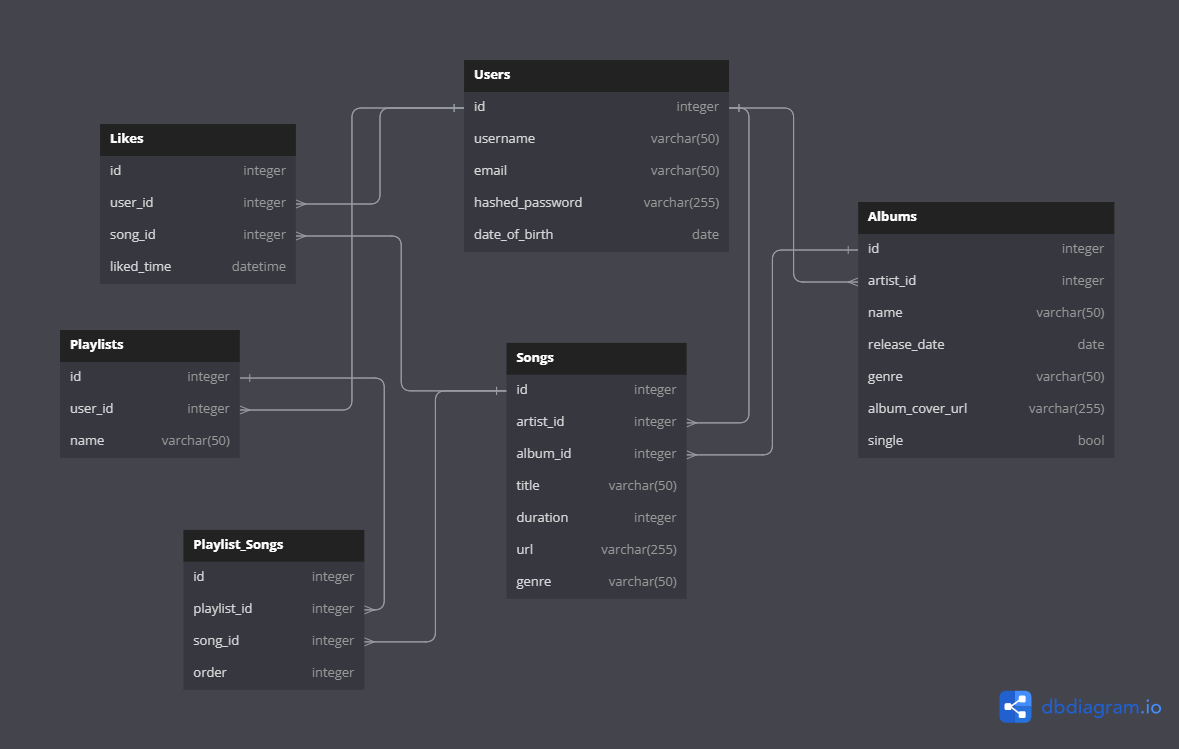
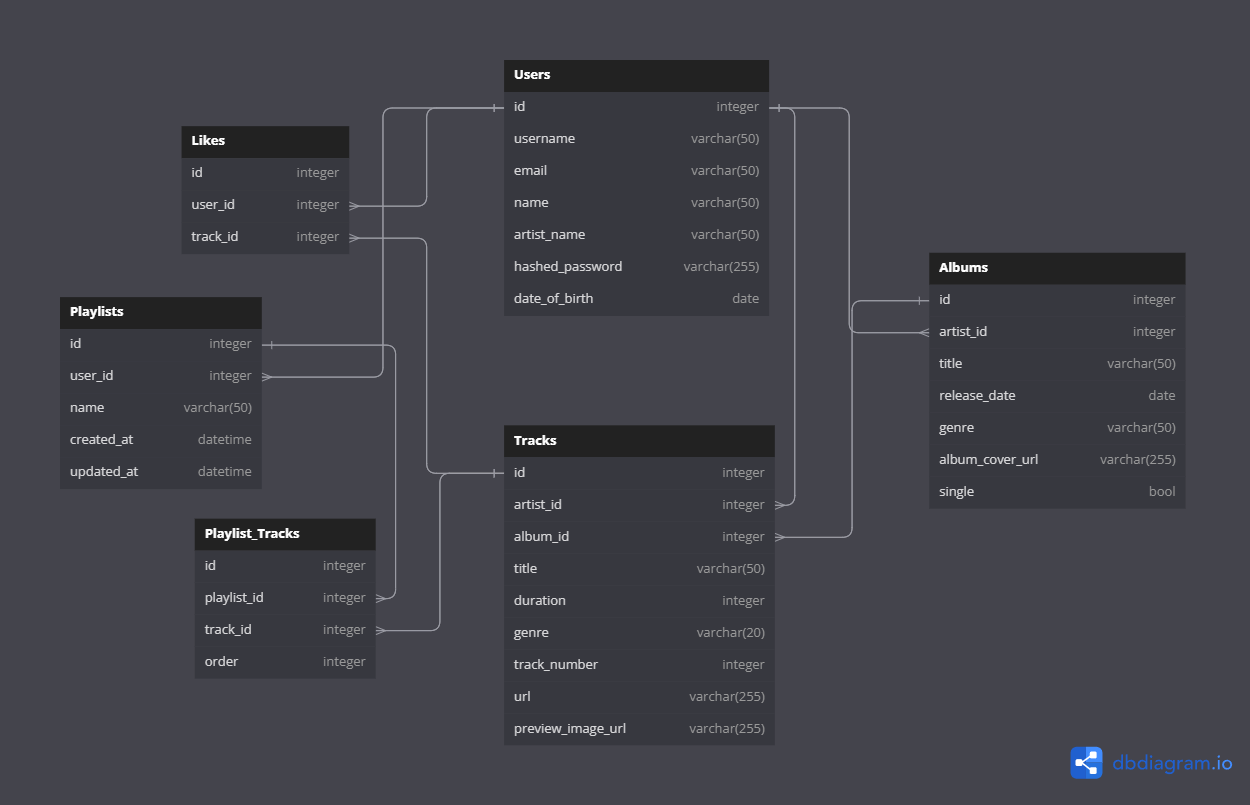
finished first draft of API docs, db schema, feature list

diff --git a/README.md b/README.md
@@ -39,6 +39,8 @@ Returns all the tracks.
                 "artist_name": "Sekai no Owari",
                 "duration": 230,
                 "album_title": "Tree",
+                "total_likes": 20000,
+                "liked": True,
                 "url": "song url",
                 "preview_image_url": "preview image url"
             }
@@ -74,6 +76,8 @@ Returns all the tracks uploaded by the current user
                 "artist_name": "Sekai no Owari",
                 "duration": 230,
                 "album_title": "Tree",
+                "total_likes": 20000,
+                "liked": True,
                 "url": "song url",
                 "preview_image_url": "preview image url"
             }
@@ -107,10 +111,11 @@ Returns the details of a track specified by its id.
         "artist_name": "Sekai no Owari",
         "duration": 230,
         "genre": "Pop",
+        "total_likes": 20000,
+        "liked": True,
         "url": "song url",
         "preview_image_url": "preview image url",
-        "num_playlists": 3,
-        "likes": 10000
+        "num_playlists": 3
     }
 
     ```
@@ -456,7 +461,20 @@ Updates and returns an existing album.
       "release_date": "2021-11-19",
       "genre": "Pop",
       "album_cover_url": "album cover url",
-      "single": False
+      "single": False,
+      "tracks": [
+        {
+          "id": 1,
+          "artist_id": 1,
+          "album_id": 1,
+          "album_title": "Tree",
+          "title": "Dragon Night",
+          "artist_name": "Sekai no Owari",
+          "duration": 230,
+          "url": "song url",
+          "preview_image_url": "preview image url"
+        }
+      ]
     }
     ```
 
@@ -474,7 +492,20 @@ Updates and returns an existing album.
       "release_date": "2021-11-19",
       "genre": "Pop",
       "album_cover_url": "album cover url",
-      "single": False
+      "single": False,
+      "tracks": [
+        {
+          "id": 1,
+          "artist_id": 1,
+          "album_id": 1,
+          "album_title": "Tree",
+          "title": "Dragon Night",
+          "artist_name": "Sekai no Owari",
+          "duration": 230,
+          "url": "song url",
+          "preview_image_url": "preview image url"
+        }
+      ]
     }
     ```
 
@@ -543,7 +574,7 @@ Deletes an existing album.
     ```
 
 ### PLAYLISTS
-    
+
 ### Get all Playlists created by the Current User
 
 Returns all the playlists created by the current user
@@ -564,7 +595,8 @@ Returns all the playlists created by the current user
     {
         "Playlists": [
             {
-                "name": "Awesome Mix"
+                "name": "Awesome Mix",
+                "preview_image": "preview image url"
             }
         ]
     }
@@ -589,6 +621,7 @@ Returns the details of a playlist specified by its id.
     ```json
     {
       "name": "Awesome Mix",
+      "preview_image": "preview image url",
       "tracks": [
         {
             "id": 1,
@@ -632,7 +665,8 @@ Creates and returns a new playlist.
 
     ```json
     {
-      "name": "Awesome Mix"
+      "name": "Awesome Mix",
+      "preview_image": "preview image url"
     }
 
     ```
@@ -668,6 +702,7 @@ Updates and returns an existing playlist.
     ```json
     {
       "name": "Awesome Mix",
+      "preview_image": "preview image url",
       "tracks": [
         {
           "id": 1,
@@ -780,7 +815,7 @@ Returns the number of likes by track id
 * Request
   * Method: GET
   * URL: /api/tracks/:trackId/likes
-  * Body: 
+  * Body:
     ```json
     {
       "track_id": 1
@@ -795,6 +830,7 @@ Returns the number of likes by track id
 
   ```json
   {
+    "track_id": 1,
     "likes": 5
   }
   ```
@@ -807,7 +843,7 @@ Likes a track by its id
 * Request
   * Method: POST
   * URL: /api/tracks/:trackId/like
-  * Body: 
+  * Body:
     ```json
     {
       "user_id": 1,
@@ -835,7 +871,7 @@ Unlikes a track by its id
 * Request
   * Method: DELETE
   * URL: /api/tracks/:trackId/unlike
-  * Body: 
+  * Body:
     ```json
     {
       "user_id": 1,
@@ -854,4 +890,3 @@ Unlikes a track by its id
     "message": "Successfully deleted!"
   }
   ```
-
